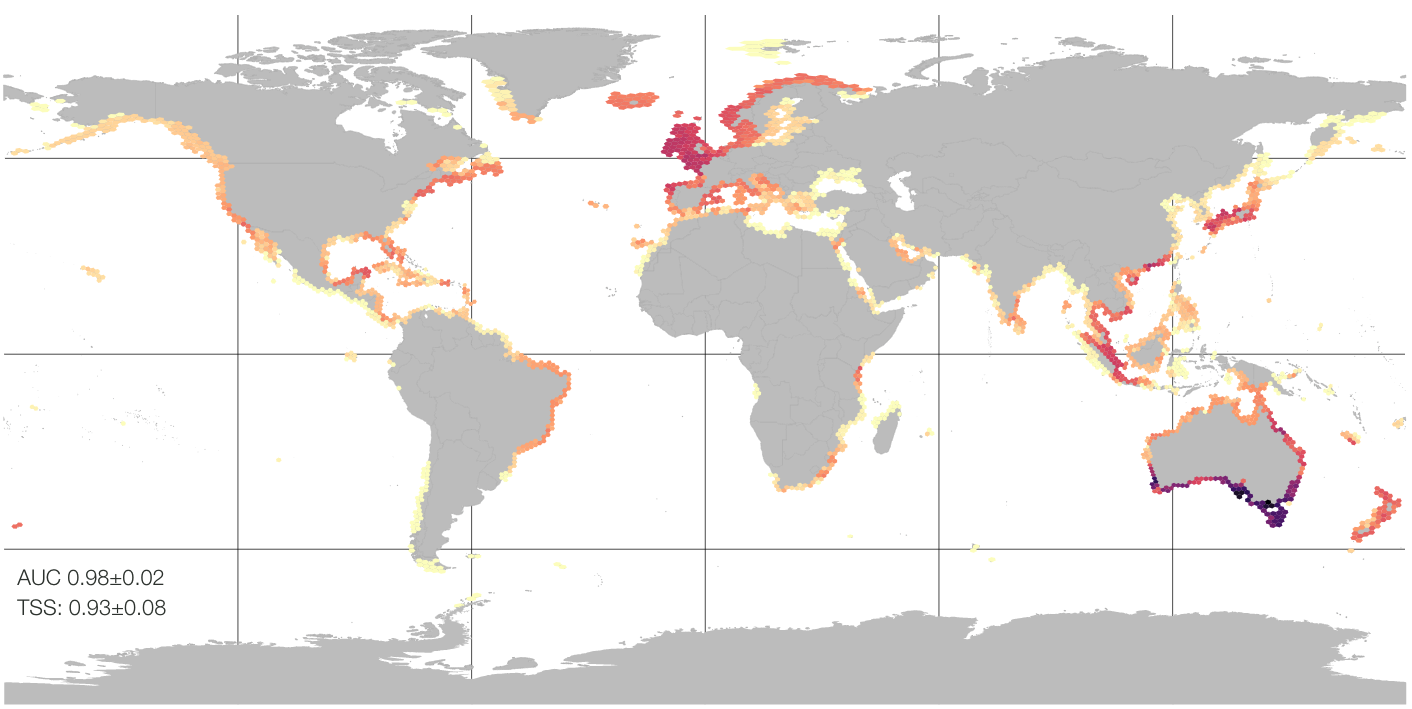
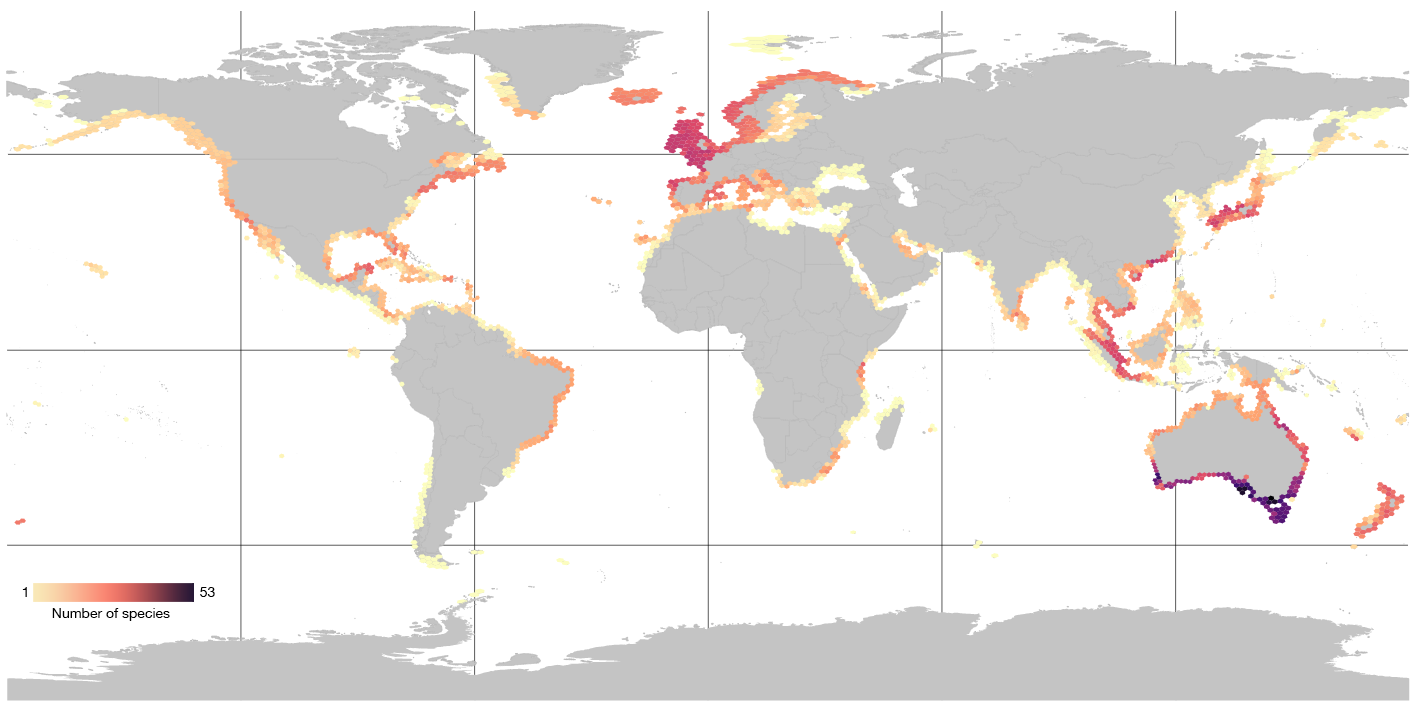
Up.

diff --git a/_layouts/species-richness-marine-forests.html b/_layouts/species-richness-marine-forests.html
@@ -32,22 +32,18 @@ layout: default
 
         <p class="lead text-left">
 
-        Marine forests of macroalgae ans seagrass create essential habitats for coastal species and support invaluable ecological services. Project Marine Forests provides the first global analysis of species richness of kelp, fucoid and seagrass biomes.
-
-        <br><br>
-        
-        A large dataset of macroalgal observations (aprox. 2 million records) where coupled with relevant environmental predictors (i.e., light, temperature, salinity, nitrate, wave energy and ice coverage) to develop stacked species distribution models (stacked SDMs) and yield estimates of global species richness and endemicity.
+        Marine forests of macroalgae and seagrass create essential habitats for coastal species and support invaluable ecological services.
 
         <br><br>
 
-        The mapped biodiversity patterns can serve as new baselines for planning and prioritizing locations for conservation, man-agement and climate change mitigation strategies, flagging threatened marine forest regions under different climate change scenarios.
+        Here we provide species richness estimates of kelp, fucoid and seagrass biomes, by using species distribution models (stacked SDMs) linking occurrence records with relevant environmental predictors (i.e., light, temperature, salinity, nitrate, wave energy and ice coverage). The mapped biodiversity can serve as new baselines for planning and prioritizing locations for conservation, management and climate change mitigation strategies.
 
         </p>
 
       </div>
   </div>
 
-<div class="row justify-content-center top-spacer-20">
+<div class="row justify-content-center top-spacer-40">
   <div class="col-md-10">
     <h4>Species richness of kelp forests</h4>
     <div class="border--round box-shadow-wide"  style="height: 450px; overflow: hidden; padding: 25px">
@@ -56,55 +52,11 @@ layout: default
   </div>
 </div>
 
-<div class="row justify-content-center top-spacer-50">
+<div class="row justify-content-center top-spacer-20">
     <div class="col-md-8">
 
       <p class="lead top-spacer-10 text-left">
-      The dataset provides a fine-tuned dataset of marine ecosystem-structuring species of large brown algae and seagrasses with dereplicated occurrence records, taxonomically standardized, and considering important physiological and biogeographical traits. The dataset is documented in the peer reviewed article "Assis, J., Fragkopoulou, E., Frade, D. et al. A fine-tuned global distribution dataset of marine forests. Sci Data 7, 119 (2020). https://doi.org/10.1038/s41597-020-0459-x"
-      <br><br>
-      The dataset provides a fine-tuned dataset of marine ecosystem-structuring species of large brown algae and seagrasses with dereplicated occurrence records, taxonomically standardized, and considering important physiological and biogeographical traits.
-      </p>
-
-    </div>
-</div>
-
-<div class="row justify-content-center top-spacer-50">
-  <div class="col-md-10">
-    <h4>Species richness of fucales forests</h4>
-    <div class="border--round box-shadow-wide"  style="height: 450px; overflow: hidden; padding: 25px">
-      <img alt="Image" src="https://www.biodiversitydatascience.com/marineForestsWeb/assets/img/diversity-kelp.png" style="margin-bottom: 30px" />
-    </div>
-  </div>
-</div>
-
-<div class="row justify-content-center top-spacer-50">
-    <div class="col-md-8">
-
-      <p class="lead top-spacer-10 text-left">
-      The dataset provides a fine-tuned dataset of marine ecosystem-structuring species of large brown algae and seagrasses with dereplicated occurrence records, taxonomically standardized, and considering important physiological and biogeographical traits. The dataset is documented in the peer reviewed article "Assis, J., Fragkopoulou, E., Frade, D. et al. A fine-tuned global distribution dataset of marine forests. Sci Data 7, 119 (2020). https://doi.org/10.1038/s41597-020-0459-x"
-      <br><br>
-      The dataset provides a fine-tuned dataset of marine ecosystem-structuring species of large brown algae and seagrasses with dereplicated occurrence records, taxonomically standardized, and considering important physiological and biogeographical traits.
-      </p>
-
-    </div>
-</div>
-
-<div class="row justify-content-center top-spacer-50">
-  <div class="col-md-10">
-    <h4>Species richness of seagrass forests</h4>
-    <div class="border--round box-shadow-wide"  style="height: 450px; overflow: hidden; padding: 25px">
-      <img alt="Image" src="https://www.biodiversitydatascience.com/marineForestsWeb/assets/img/diversity-kelp.png" style="margin-bottom: 30px" />
-    </div>
-  </div>
-</div>
-
-<div class="row justify-content-center top-spacer-50">
-    <div class="col-md-8">
-
-      <p class="lead top-spacer-10 text-left">
-      The dataset provides a fine-tuned dataset of marine ecosystem-structuring species of large brown algae and seagrasses with dereplicated occurrence records, taxonomically standardized, and considering important physiological and biogeographical traits. The dataset is documented in the peer reviewed article "Assis, J., Fragkopoulou, E., Frade, D. et al. A fine-tuned global distribution dataset of marine forests. Sci Data 7, 119 (2020). https://doi.org/10.1038/s41597-020-0459-x"
-      <br><br>
-      The dataset provides a fine-tuned dataset of marine ecosystem-structuring species of large brown algae and seagrasses with dereplicated occurrence records, taxonomically standardized, and considering important physiological and biogeographical traits.
+      The highest regional species richness for kelp was found in the north-east Pacific (maximum 32 species) and for fucoids in south-east Australia (maximum 53 species), supporting the hypothesis that these regions were the evolu-tionary sources of global colonization by brown macroalgae. Locations with low spe-cies richness coincided between kelp and fucoid, occurring mainly at higher latitudes (e.g., Siberia) and the Baltic Sea, where extensive ice coverage and low-salinity regimes prevail. Regions of high endemism for both groups were identified in the Galapagos Islands, Antarctica, South Africa and East Russia.
       </p>
 
     </div>
